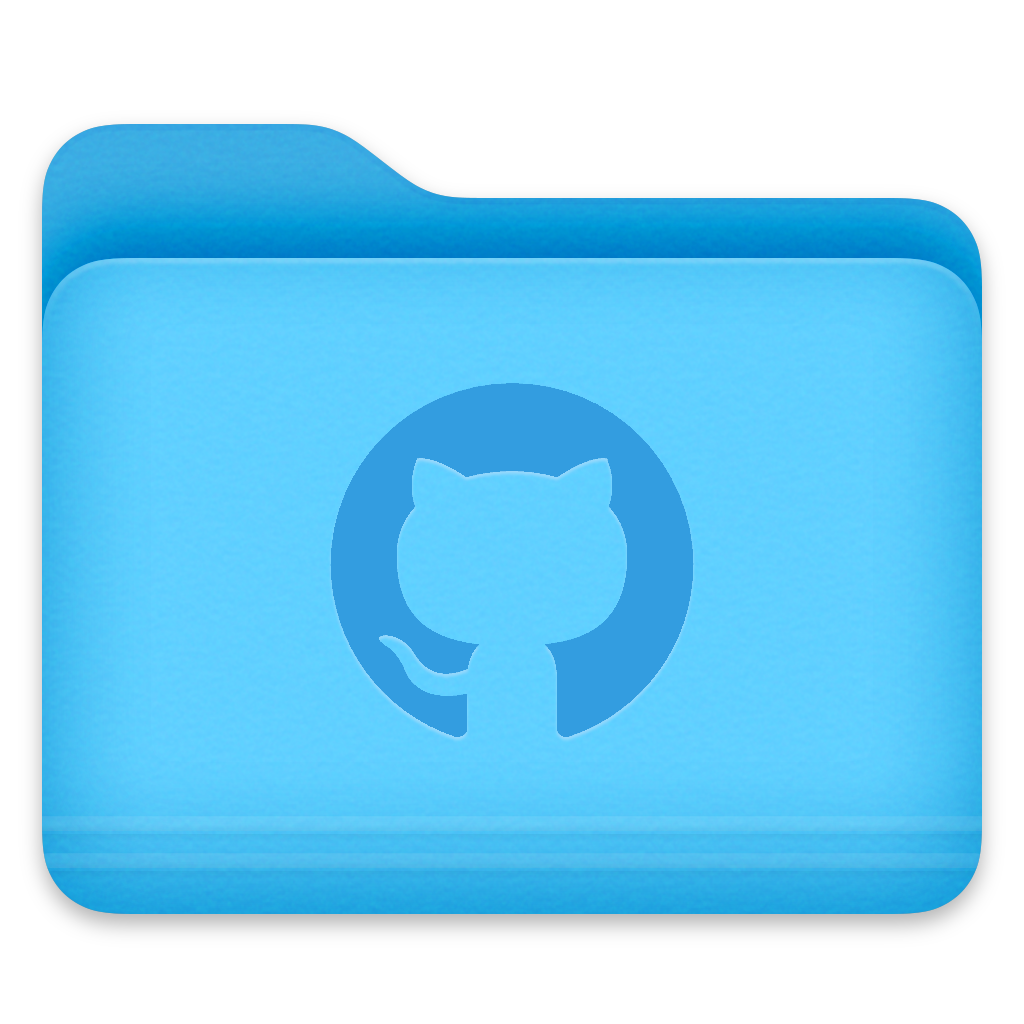
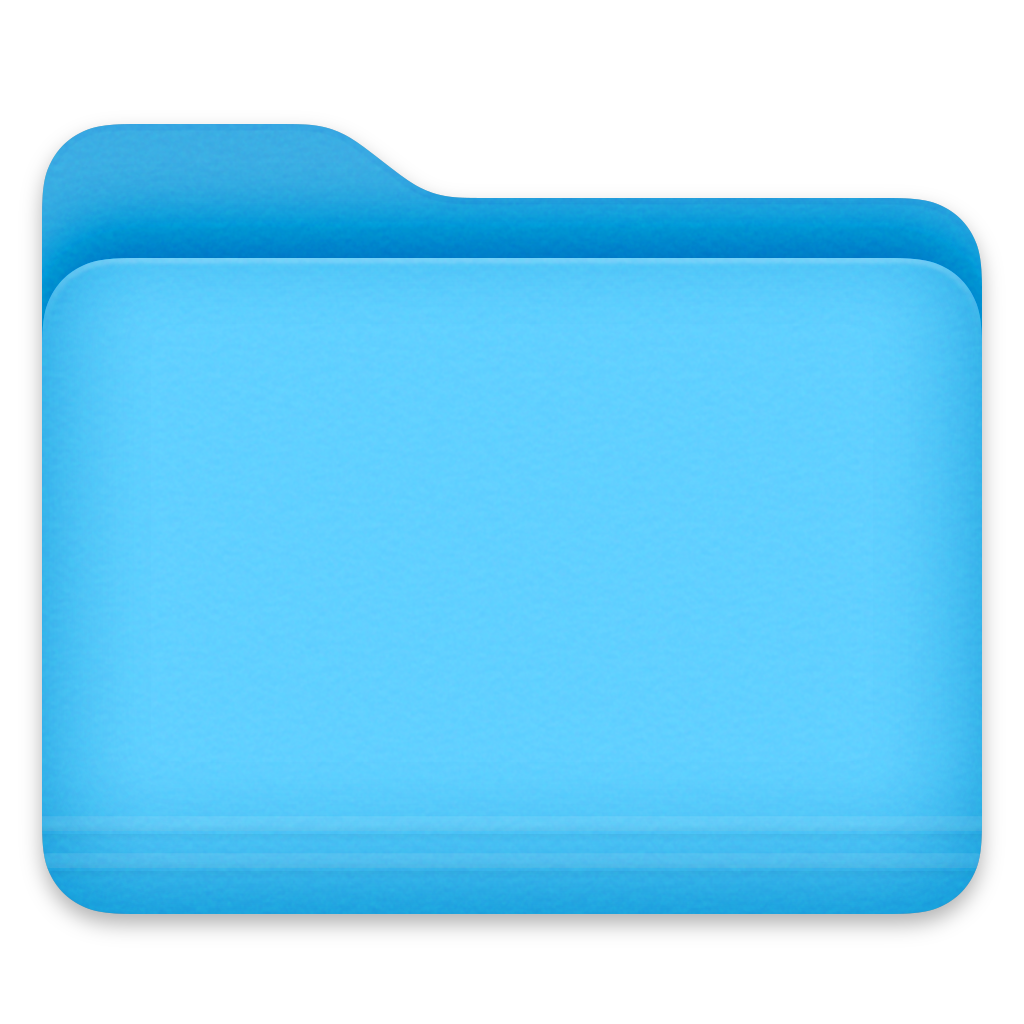
feat: render text input

Changed region(s): [[0.3125, 0.375, 0.6875, 0.7188]]

diff --git a/utils/icons/draw.ts b/utils/icons/draw.ts
@@ -1,8 +1,9 @@
 import { loadImage } from '@/utils/load-image'
-import { ICON_SHADOW_SIZE, IconColor, Resolution, ShadowColor, Size } from '@/utils/icons/consts'
+import { IconColor, Resolution, Size } from '@/utils/icons/consts'
 import { getFolderPath } from './common'
 import { Canvas, Color, Context } from './types'
 import { Dimension, getIconPosition } from './format-icon'
+import { createConstraints } from '@/utils/icons/create-constraints'
 
 export async function drawFolder(
    ctx: Context,
@@ -20,28 +21,33 @@ export async function drawFolder(
 export function drawIcon(
    ctx: Context,
    icon: HTMLImageElement,
-   color: Color,
    dimension: Dimension,
    resolution: Resolution
 ) {
-   ctx.shadowColor = ShadowColor[color]
-   ctx.shadowOffsetY = ICON_SHADOW_SIZE
-   ctx.shadowBlur = ICON_SHADOW_SIZE
-   ctx.globalCompositeOperation = 'source-over'
-
    const { x, y } = getIconPosition(dimension.width, dimension.height, resolution)
    ctx.drawImage(icon, x, y, dimension.width, dimension.height)
 }
 
-export function drawText(ctx: Context, text: string, color: Color) {
-   const x = 400,
-      y = 400
+export function drawText(ctx: Context, text: string, color: Color, resolution: Resolution) {
+   const config = createConstraints(resolution)
 
    const selectedColor = IconColor[color]
    const textColor = `rgb(${selectedColor.red}, ${selectedColor.green}, ${selectedColor.blue})`
-   const borderColor = ShadowColor[color]
-   ctx.font = '220px Arial'
+
+   let fontSize = 220
+   const fontFamily = 'Arial'
+   ctx.font = `${fontSize}px ${fontFamily}`
+
+   // Dynamically adjust font size to fit within maxWidth
+   while (ctx.measureText(text).width > config.maxWidth) {
+      fontSize -= 1
+      ctx.font = `${fontSize}px ${fontFamily}`
+   }
+
+   const textWidth = ctx.measureText(text).width
+   const x = Size[resolution] / 2 - textWidth / 2
+   const y = config.startY + config.folderAreaHeight / 2 + fontSize / 4
+
    ctx.fillStyle = textColor
-   ctx.strokeStyle = borderColor
-   ctx.fillText(text, x + 10, y + 30)
+   ctx.fillText(text, x, y, config.maxWidth)
 }

diff --git a/utils/icons/generate-preview.ts b/utils/icons/generate-preview.ts
@@ -1,5 +1,5 @@
 import { Canvas, Config, Context } from './types'
-import { Resolution } from '@/utils/icons/consts'
+import { SHADOW_SIZE, Resolution, ShadowColor } from '@/utils/icons/consts'
 import { Dimension, getIconDimension } from './format-icon'
 import { createIcon } from '@/utils/icons/create-icon'
 import { loadIconImg } from '@/utils/icons/load-icon-img'
@@ -7,7 +7,7 @@ import { drawFolder, drawIcon, drawText } from '@/utils/icons/draw'
 
 export async function generatePreview(canvas: Canvas, ctx: Context, config: Config) {
    /**
-    * Preload Icon
+    * Preload Icon to avoid flickering
     */
    const resolution = Resolution.Retina512
    const iconImg: HTMLImageElement | null = await loadIconImg(config.icon)
@@ -25,14 +25,24 @@ export async function generatePreview(canvas: Canvas, ctx: Context, config: Conf
    await drawFolder(ctx, canvas, resolution, config.color)
 
    /**
+    * Add Shadow
+    */
+   ctx.shadowColor = ShadowColor[config.color]
+   ctx.shadowOffsetY = SHADOW_SIZE
+   ctx.shadowBlur = SHADOW_SIZE
+   ctx.globalCompositeOperation = 'source-over'
+
+   /**
     * Draw Icon
     */
    if (icon && dimension) {
-      drawIcon(ctx, icon, config.color, dimension, resolution)
+      drawIcon(ctx, icon, dimension, resolution)
    }
 
    /**
     * Draw Text
     */
-   drawText(ctx, 'hi', config.color)
+   if (config.text) {
+      drawText(ctx, config.text, config.color, resolution)
+   }
 }

diff --git a/app/components/Configuration/Configuration.tsx b/app/components/Configuration/Configuration.tsx
@@ -4,7 +4,7 @@ import { OnChangeConfig } from '@/app/components/FolderEditor'
 import { DownloadIcon, FolderIcon } from '@/icons'
 import { Config } from '@/utils/icons'
 import { useRef } from 'react'
-import { devIcons } from './defaultIcons'
+import { defaultIcons } from './defaultIcons'
 import { COLORS } from '@/utils/icons/consts'
 
 export function Configuration({
@@ -48,6 +48,14 @@ export function Configuration({
             }}
          />
 
+         <input
+            className='h-10 border border-zinc-200 rounded-md px-3 py-2 w-full appearance-none'
+            placeholder='Text'
+            value={configuration.text}
+            onChange={(e) => onChangeConfig('text', e.target.value)}
+            maxLength={15}
+         />
+
          <div>
             <select
                className='h-10 border border-zinc-200 rounded-md px-3 py-2 w-full appearance-none cursor-pointer mt-2'
@@ -83,7 +91,7 @@ export function Configuration({
          </select>
 
          <ul className='hidden md:grid md:grid-cols-6 lg:grid-cols-7 gap-3'>
-            {devIcons.map((icon, i) => {
+            {defaultIcons.map((icon, i) => {
                const selected = configuration.icon === icon.name
 
                return (

diff --git a/utils/icons/types.ts b/utils/icons/types.ts
@@ -21,6 +21,7 @@ export type IconConstraints = {
 export type Config = {
    adjustColor: number
    icon?: File | string
+   text: string
    color: Color
 }
 
@@ -30,18 +31,4 @@ export type Canvas = {
    toDataURL(type?: string | undefined, quality?: any): string
 }
 
-export type Context = {
-   drawImage: (image: any, x: number, y: number, w: number, h: number) => void
-   shadowColor: string
-   shadowOffsetY: number
-   shadowBlur: number
-   globalCompositeOperation: GlobalCompositeOperation
-   getImageData: (
-      sx: number,
-      sy: number,
-      sw: number,
-      sh: number,
-      settings?: ImageDataSettings | undefined
-   ) => ImageData
-   putImageData: (imagedata: ImageData, dx: number, dy: number) => void
-}
+export type Context = CanvasRenderingContext2D

diff --git a/app/components/FolderEditor.tsx b/app/components/FolderEditor.tsx
@@ -14,7 +14,8 @@ export function FolderEditor() {
    const [configuration, setConfiguration] = useState<Config>({
       color: 'default-dark',
       adjustColor: 1,
-      icon: 'github',
+      icon: '',
+      text: '',
    })
    const [canvasRef, loading] = useUpdatePreview(configuration)
 
@@ -45,7 +46,7 @@ export function FolderEditor() {
    }
 
    async function onDownload() {
-      if (!configuration.icon || !canvasRef.current) return
+      if (!canvasRef.current) return
 
       const image = canvasRef.current.toDataURL()
 

diff --git a/app/components/Configuration/defaultIcons.ts b/app/components/Configuration/defaultIcons.ts
@@ -9,8 +9,13 @@ import TSIcon from '@/public/icons/ts.svg'
 import GitIcon from '@/public/icons/git.svg'
 import VsCodeIcon from '@/public/icons/vscode.svg'
 import NextIcon from '@/public/icons/next.svg'
+import EmptyIcon from '@/public/icons/empty.svg'
 
-export const devIcons = [
+export const defaultIcons = [
+   {
+      name: '',
+      src: EmptyIcon,
+   },
    {
       name: 'github',
       src: GithubIcon,

diff --git a/utils/icons/load-icon-img.ts b/utils/icons/load-icon-img.ts
@@ -3,7 +3,7 @@ import { Config } from '@/utils/icons/types'
 import { loadImage } from '@/utils/load-image'
 
 export async function loadIconImg(icon: Config['icon']): Promise<HTMLImageElement | null> {
-   const isDefaultIcon = typeof icon === 'string'
+   const isDefaultIcon = typeof icon === 'string' && icon.length
 
    if (isDefaultIcon) {
       return await loadImage(getIconPath(icon))

diff --git a/utils/icons/consts.ts b/utils/icons/consts.ts
@@ -158,4 +158,4 @@ export const ShadowColor: Record<Color, string> = {
    black: '#5F5F5F',
 }
 
-export const ICON_SHADOW_SIZE = 3
+export const SHADOW_SIZE = 3
